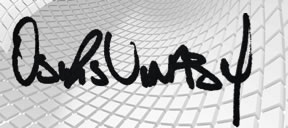
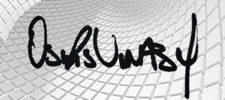
Cambios firma de cartas movilización V2

Changed region(s): [[0.0311, 0.09, 0.9022, 1.0]]

diff --git a/contenidos/ciudadano/prueba.php b/contenidos/ciudadano/prueba.php
@@ -170,8 +170,8 @@ $path = K_PATH_IMAGES;
 $path = explode('librerias', $path);
 $image_file = $path[0] . 'recursos/imagenes/firma.jpg';
 ///$pdf->writeHTML("<b>Cordialmente,</b><p>&nbsp;</p>", true, false, true, false, '');
-$pdf->Image($image_file, 15, 176, 75, 30, 'jpg', '', '', false, 150, '', false, false, 0, false, false, false);
-$pdf->writeHTML("<p>&nbsp;</p><p>&nbsp;</p><p>&nbsp;</p><b>OSIRIS VIÑAS MANRIQUE</b>", true, false, true, false, '');
+$pdf->Image($image_file, 15, 180, 55, 20, 'jpg', '', '', false, 150, '', false, false, 0, false, false, false);
+$pdf->writeHTML("<p>&nbsp;</p><b>OSIRIS VIÑAS MANRIQUE</b>", true, false, true, false, '');
 $pdf->writeHTML("Subdirectora Recursos Públicos ", true, false, true, false, '');
 
 /* 

diff --git a/contenidos/ciudadano/pdfCartaMovilizacion.php b/contenidos/ciudadano/pdfCartaMovilizacion.php
@@ -177,8 +177,8 @@ $path = K_PATH_IMAGES;
 $path = explode('librerias', $path);
 $image_file = $path[0] . 'recursos/imagenes/firma.jpg';
 ///$pdf->writeHTML("<b>Cordialmente,</b><p>&nbsp;</p>", true, false, true, false, '');
-$pdf->Image($image_file, 15, 176, 75, 30, 'jpg', '', '', false, 150, '', false, false, 0, false, false, false);
-$pdf->writeHTML("<p>&nbsp;</p><p>&nbsp;</p><b>OSIRIS VIÑAS MANRIQUE</b>", true, false, true, false, '');
+$pdf->Image($image_file, 15, 180, 55, 20, 'jpg', '', '', false, 150, '', false, false, 0, false, false, false);
+$pdf->writeHTML("<p>&nbsp;</p><b>OSIRIS VIÑAS MANRIQUE</b>", true, false, true, false, '');
 $pdf->writeHTML("Subdirectora Recursos Públicos ", true, false, true, false, '');
 
 
